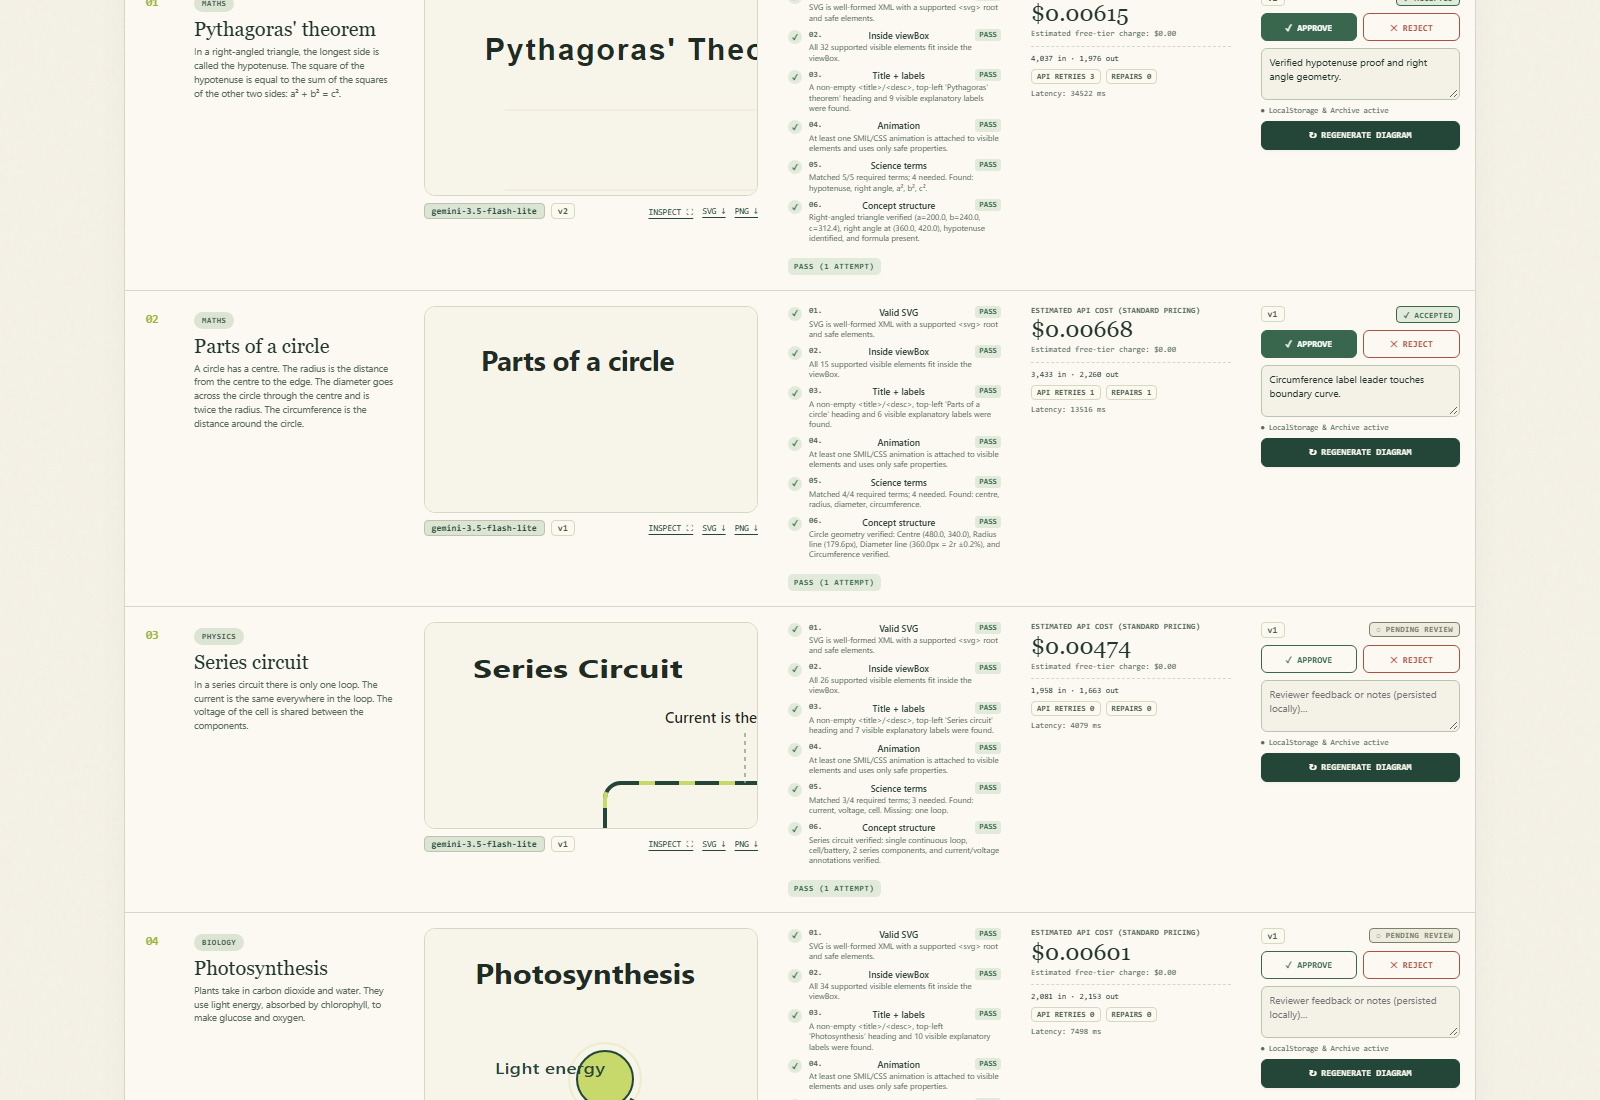
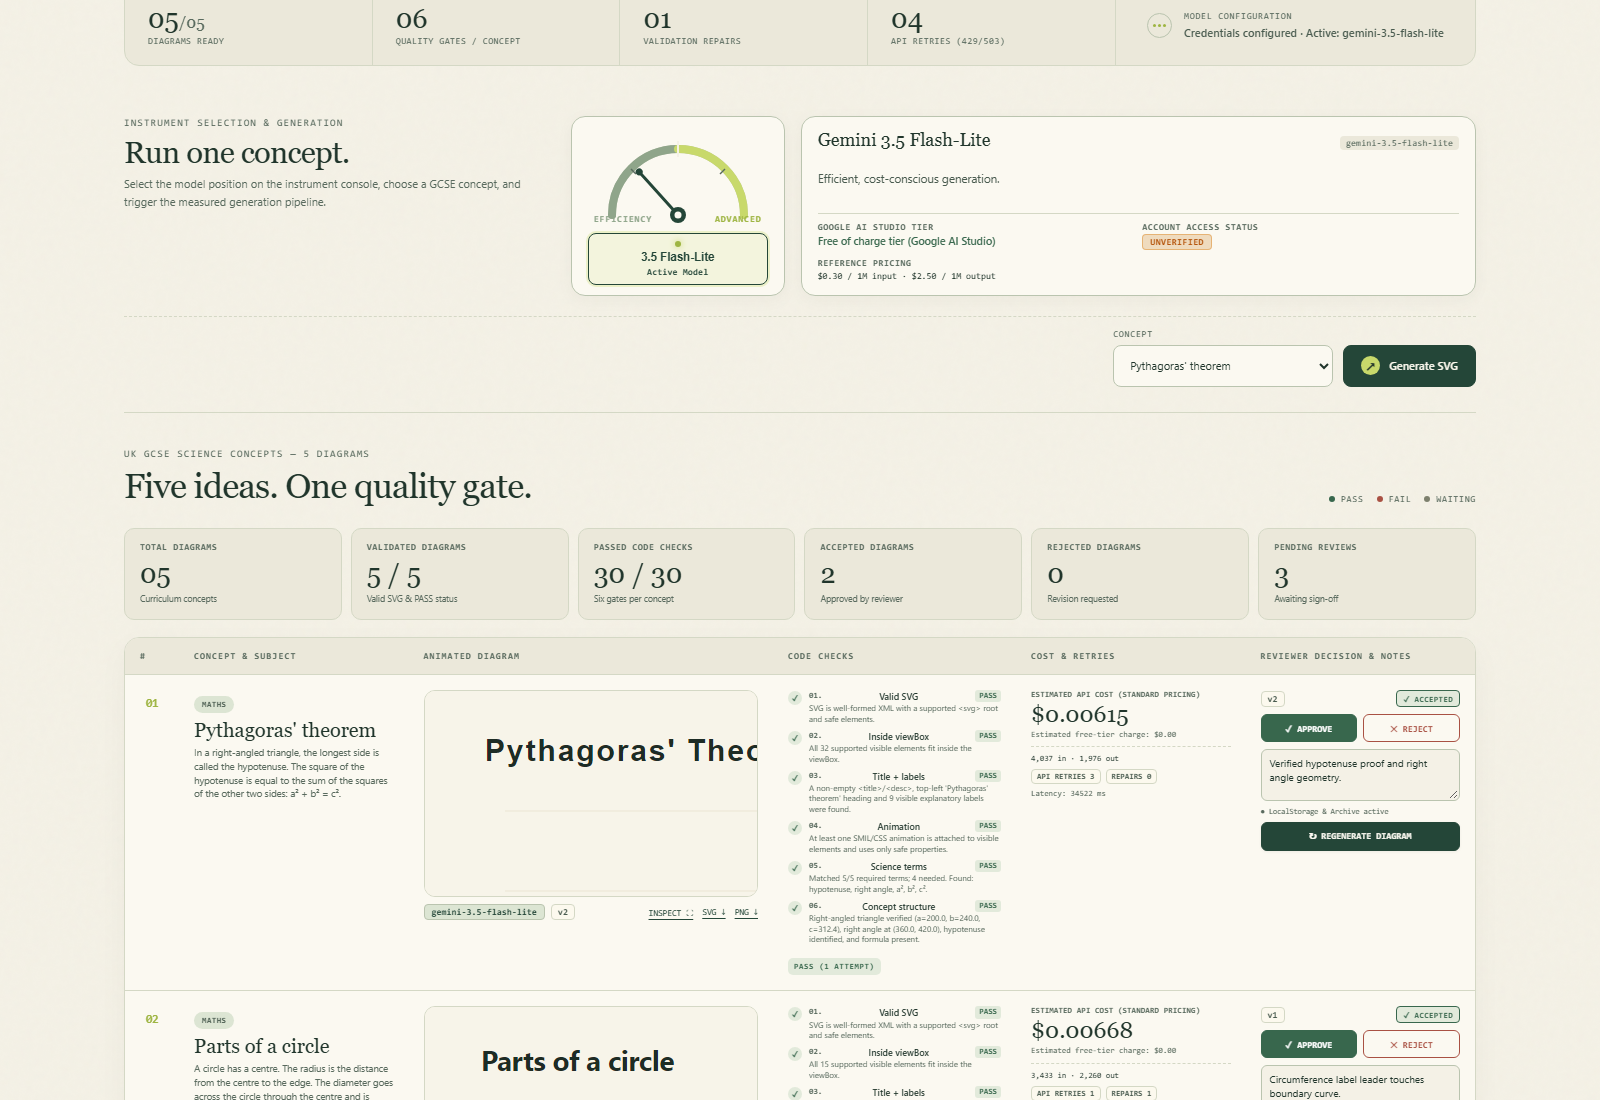
fix(ui): restore iconic 'Make science visible.' hero heading and update screenshots

diff --git a/frontend/index.html b/frontend/index.html
@@ -40,14 +40,14 @@
       <section class="hero-grid" aria-labelledby="hero-title">
         <div class="hero-copy">
           <div class="eyebrow"><span class="eyebrow-line"></span> GENERATIVE ART, WITH GUARDRAILS</div>
-          <h1 id="hero-title">UK GCSE Science Concepts — 5 Diagrams</h1>
+          <h1 id="hero-title">Make science<br /><em>visible.</em></h1>
           <p class="hero-description">
-            Five curriculum science concepts generated with Gemini AI, checked against six automated quality gates,
-            and verified through human review. Reviewer decisions are saved in LocalStorage and diagrams are preserved in IndexedDB.
+            Five GCSE concepts enter a measured generation pipeline. Every SVG is checked in code,
+            repaired once when needed, then placed in front of a human reviewer.
           </p>
           <div class="hero-meta">
             <span class="meta-pip"></span>
-            <span>Five core concepts</span>
+            <span>One concept at a time</span>
             <span class="meta-divider">/</span>
             <span>Six automated checks</span>
             <span class="meta-divider">/</span>
@@ -189,7 +189,7 @@
       <section class="review-section" aria-labelledby="review-heading">
         <div class="section-heading-row">
           <div>
-            <span class="section-overline">THE REVIEW BOARD</span>
+            <span class="section-overline">UK GCSE SCIENCE CONCEPTS — 5 DIAGRAMS</span>
             <h2 id="review-heading">Five ideas. One quality gate.</h2>
           </div>
           <div class="board-legend">

diff --git a/scripts/verify_live.py b/scripts/verify_live.py
@@ -18,7 +18,7 @@ async def verify_live():
         print(f'Page title: {title}')
         print(f'Heading: {heading}')
         assert 'manochitra' in title.lower()
-        assert '5 Diagrams' in heading
+        assert 'Make science' in heading or 'visible' in heading
         
         # 3. Check concept rows
         rows = await page.locator('#results-body tr').all()
